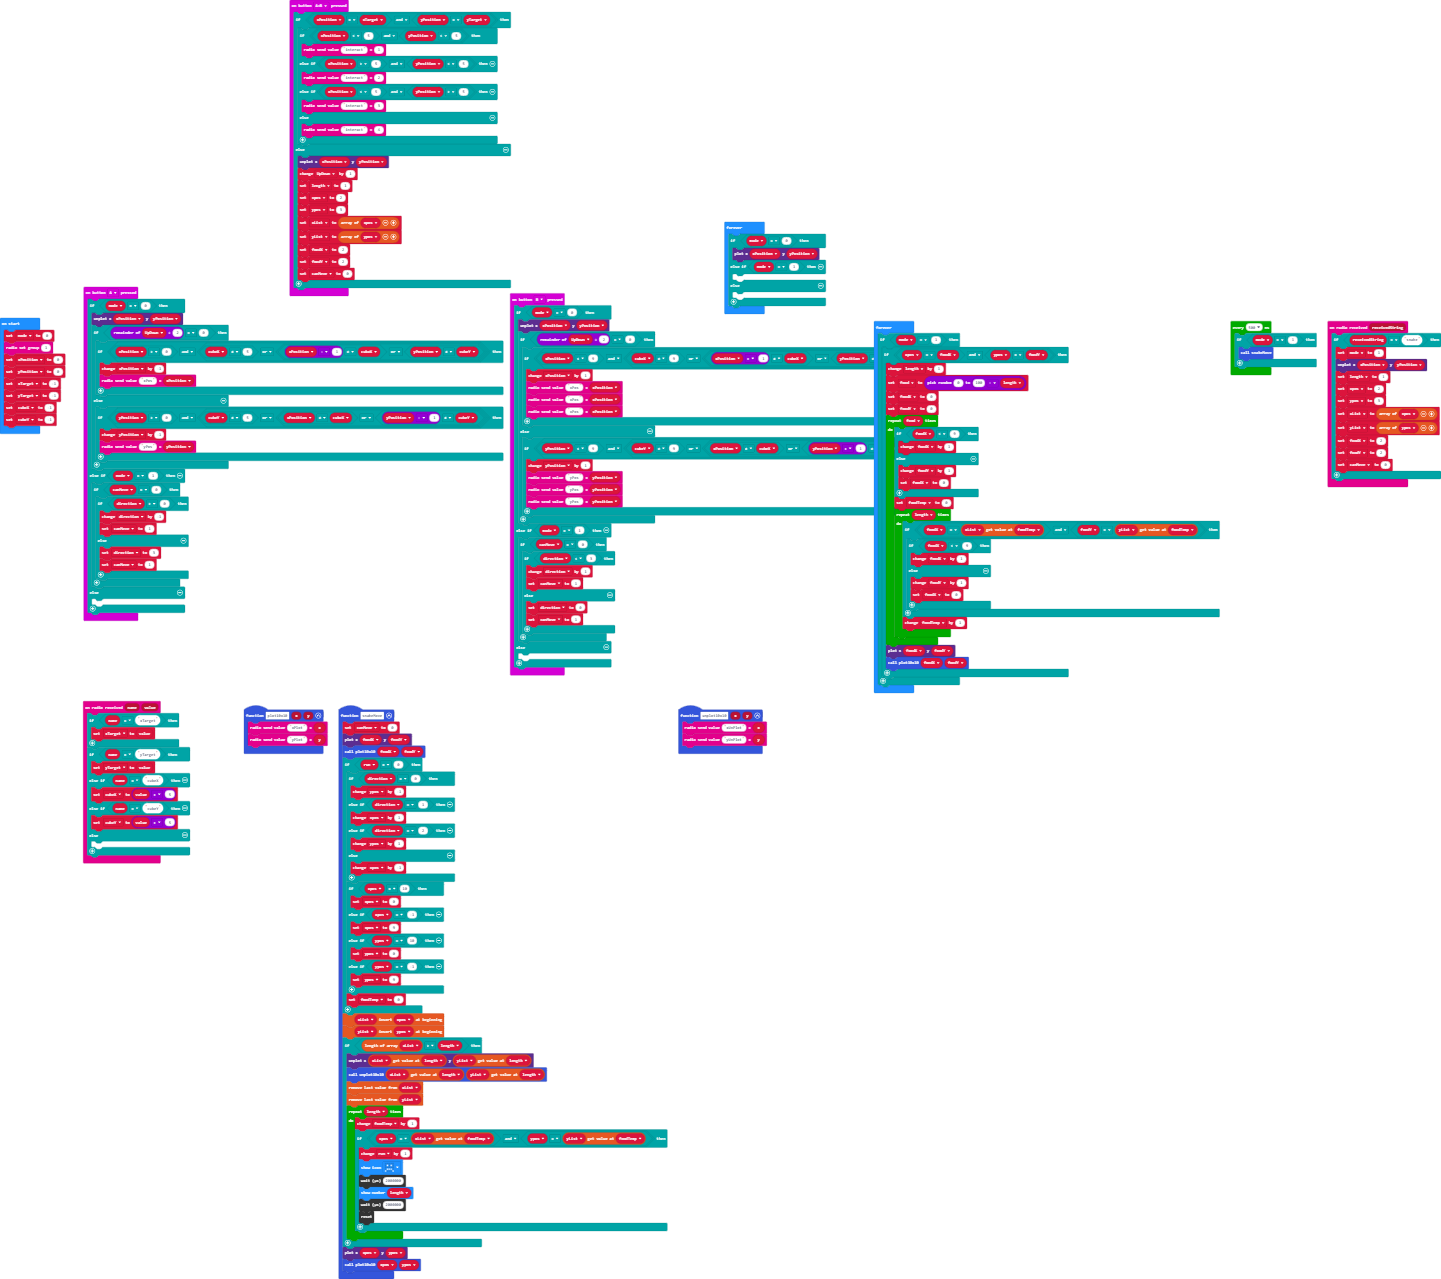
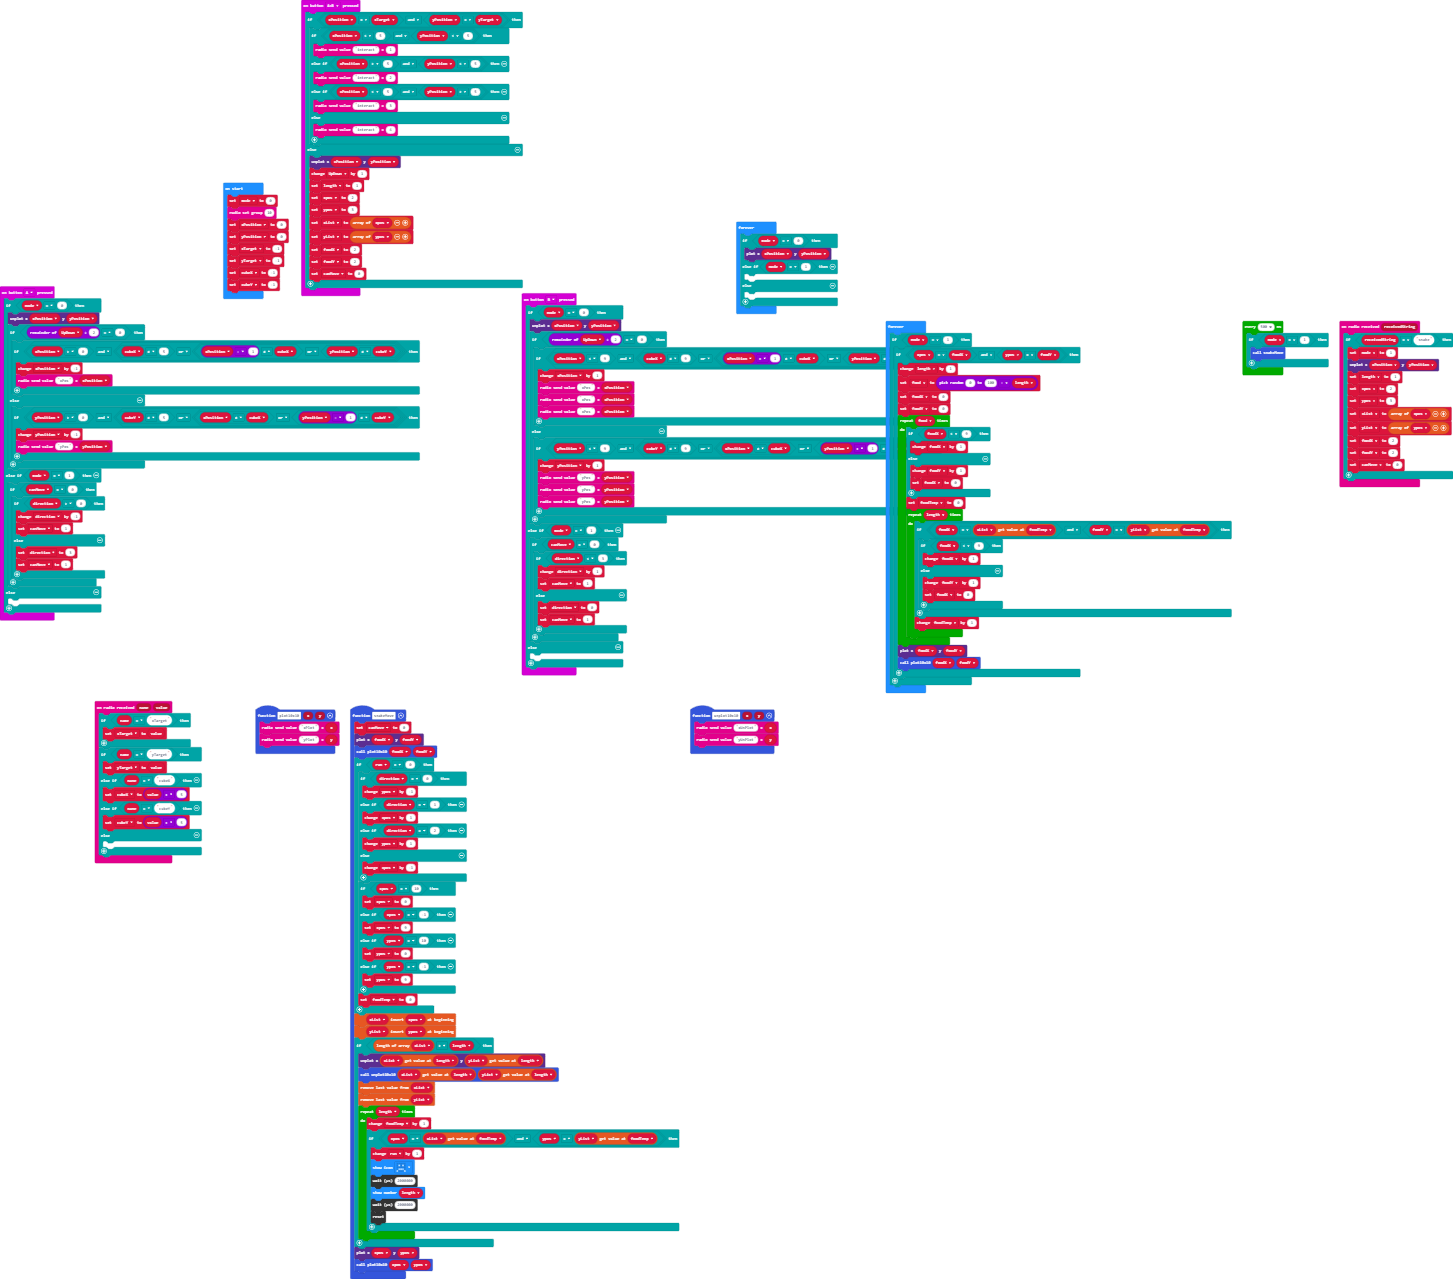
Update main.blocks, main.ts

diff --git a/main.ts b/main.ts
@@ -186,7 +186,7 @@ let yPosition = 0
 let xPosition = 0
 let mode = 0
 mode = 0
-radio.setGroup(1)
+radio.setGroup(10)
 xPosition = 0
 yPosition = 0
 xTarget = -1
